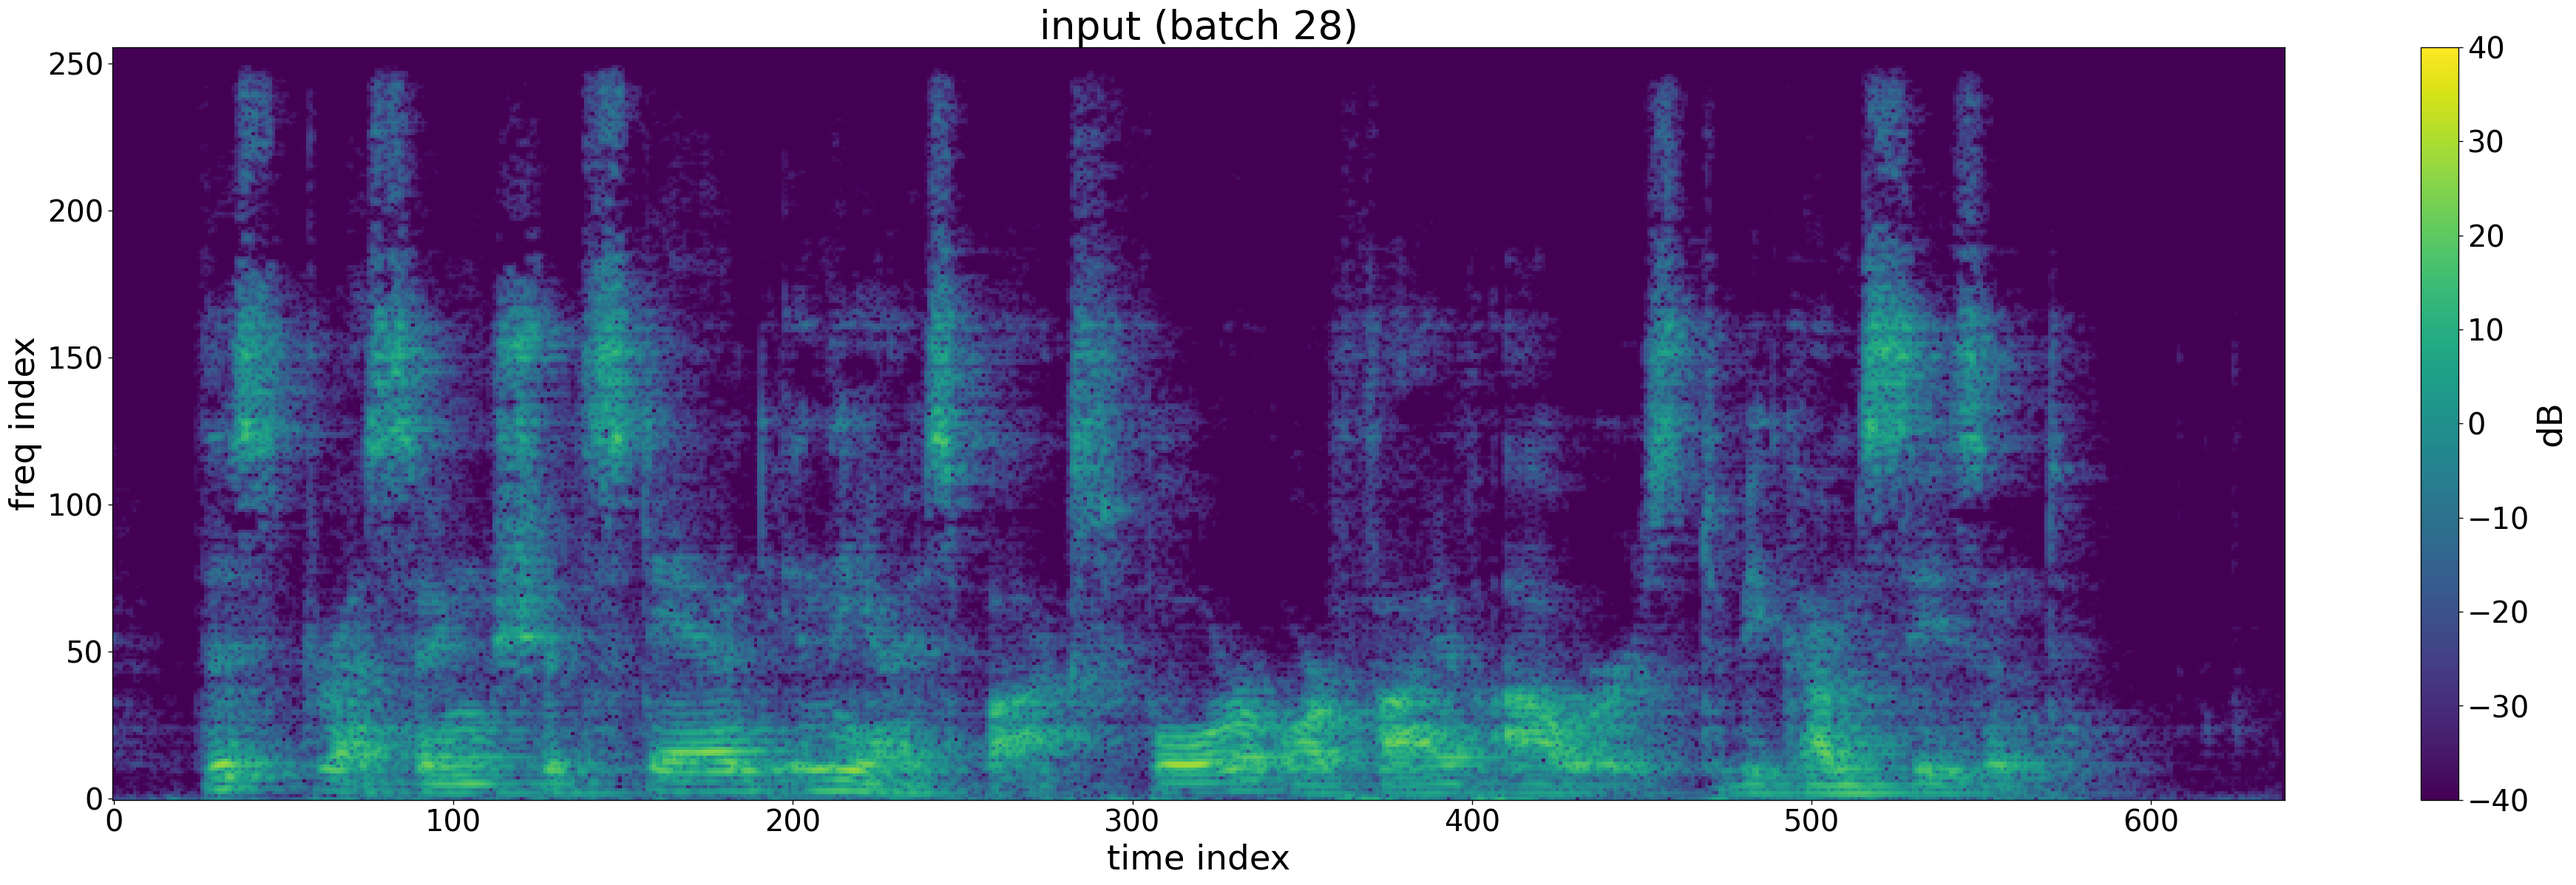
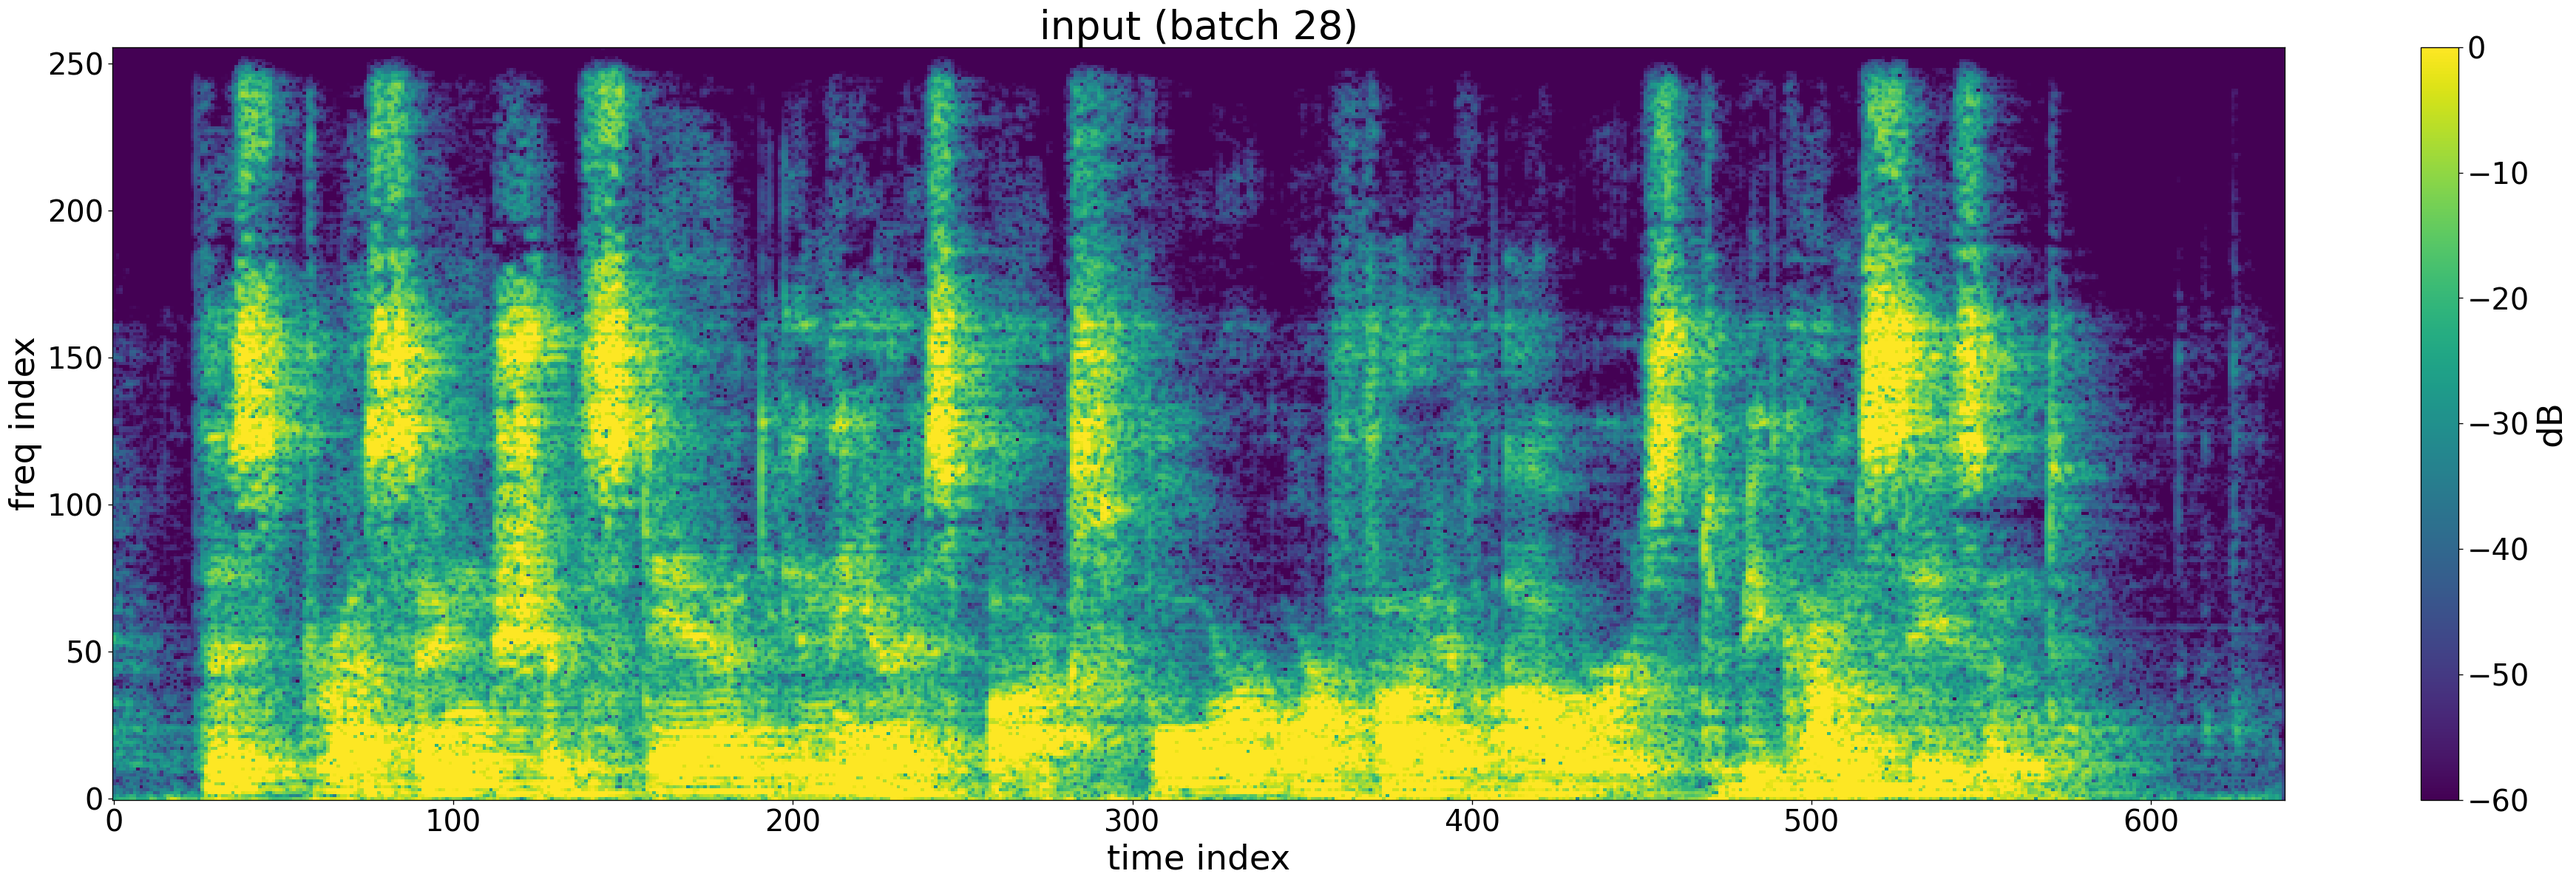
test/listen: drop PNG generation, unify spectrogram rendering
- test.py: remove plot_spectrogram and matplotlib; only write wavs.
  Example dirs renamed to example_b{batch}_{k} to carry batch index.
  Added --batch-idx CLI flag to specify batch (default: random).
- listen.py: replace scipy.signal.stft with pure-numpy STFT matching
  train.py's keras layer (periodic Hann, drop DC, no win-sum scaling).
  Remove PIL import; parse batch index from directory name.
- Regenerated input.png/output.png with updated vmin/vmax.

diff --git a/test.py b/test.py
@@ -1,4 +1,4 @@
-"""Render example inputs/predictions (spectrograms + wavs) from a trained model."""
+"""Render example inputs/predictions (wavs only) from a trained model."""
 import argparse
 import os
 import time
@@ -6,19 +6,8 @@ import time
 import numpy as np
 import soundfile as sf
 import tensorflow as tf
-from matplotlib import pyplot as plt
 
-from train import FRAME_LENGTH, FRAME_STEP, STFT, checkpoint_path, dataset, dereverb_model
-
-
-def plot_spectrogram(x, title, frame_length, frame_step, vmin=-40, vmax=40):
-    X = STFT(frame_length, frame_step)(x[tf.newaxis, :])
-    X = 10 * np.log10(np.sum(np.square(X[0]+1e-5), axis=-1))
-    im = plt.imshow(np.transpose(X), vmin=vmin, vmax=vmax, origin='lower', aspect='auto')
-    plt.xlabel('time index')
-    plt.ylabel('freq index')
-    plt.title(title)
-    plt.colorbar(im, label='dB')
+from train import FRAME_LENGTH, FRAME_STEP, checkpoint_path, dataset, dereverb_model
 
 
 def make_overlapping_sequences(x, block_size, overlap):
@@ -62,33 +51,33 @@ def block_inference(model, x, block_size, overlap):
     return y
 
 
-def test_models(model_dict, dataset, num_examples, frame_length, frame_step, out_dir):
-    """Generate spectrogram pngs + wavs for a random test batch across models."""
-    def save(x, path, title):
-        plt.figure(figsize=(21, 7))
-        plot_spectrogram(x, title, frame_length, frame_step)
-        plt.tight_layout()
-        plt.savefig(path + '.png', metadata={'Title': title}, bbox_inches='tight')
-        plt.close()
+def test_models(model_dict, dataset, num_examples, frame_length, frame_step, out_dir,
+                batch_idx=None):
+    """Write input/target/prediction wavs for a test batch across models.
+
+    If `batch_idx` is None, a random batch is picked."""
+    def save(x, path):
         sf.write(path + '.wav', x, samplerate=16000)
 
     os.makedirs(out_dir, exist_ok=True)
-    batch_idx = np.random.randint(0, len(dataset))
+    if batch_idx is None:
+        batch_idx = np.random.randint(0, len(dataset))
     print(f'batch index: {batch_idx}')
     inputs, targets = dataset[batch_idx]
 
+    example_dirs = []
     for k in range(num_examples):
-        d = os.path.join(out_dir, f'example_{k}')
+        d = os.path.join(out_dir, f'example_b{batch_idx}_{k}')
         os.makedirs(d, exist_ok=True)
-        save(inputs[k], os.path.join(d, 'input'), f'input (batch {batch_idx})')
-        save(targets[k], os.path.join(d, 'target'), f'target (batch {batch_idx})')
+        example_dirs.append(d)
+        save(inputs[k], os.path.join(d, 'input'))
+        save(targets[k], os.path.join(d, 'target'))
 
     for model_name, (model, checkpoint) in model_dict.items():
         model.load_weights(checkpoint)
         preds = [block_inference(model, inp, block_size=16384, overlap=128) for inp in inputs]
-        for k in range(num_examples):
-            d = os.path.join(out_dir, f'example_{k}')
-            save(preds[k], os.path.join(d, model_name), f'{model_name} (batch {batch_idx})')
+        for k, d in enumerate(example_dirs):
+            save(preds[k], os.path.join(d, model_name))
 
 
 if __name__ == '__main__':
@@ -96,6 +85,8 @@ if __name__ == '__main__':
     p.add_argument('--ver', choices=['dev', 'prd'], default='prd')
     p.add_argument('--num-examples', type=int, default=8)
     p.add_argument('--batch-size', type=int, default=16)
+    p.add_argument('--batch-idx', type=int, default=None,
+                   help='Test batch index to render. Default: random.')
     p.add_argument('--out-dir', default='./demo_dereverb')
     p.add_argument('--seed', type=int, default=42)
     args = p.parse_args()
@@ -109,4 +100,5 @@ if __name__ == '__main__':
     ckpt = checkpoint_path(args.ver)
     model_dict = {'unet': (model, ckpt)}
 
-    test_models(model_dict, test_ds, args.num_examples, FRAME_LENGTH, FRAME_STEP, args.out_dir)
+    test_models(model_dict, test_ds, args.num_examples, FRAME_LENGTH, FRAME_STEP, args.out_dir,
+                batch_idx=args.batch_idx)

diff --git a/listen.py b/listen.py
@@ -18,8 +18,6 @@ import numpy as np
 import soundfile as sf
 import matplotlib.pyplot as plt
 from matplotlib.widgets import Button
-from PIL import Image
-from scipy.signal import stft
 
 
 def _is_wsl():
@@ -71,29 +69,21 @@ class Player:
 
 
 def spectrogram_db(x, frame_length=512, frame_step=128, sr=16000):
-    _, _, Z = stft(x, fs=sr, nperseg=frame_length,
-                   noverlap=frame_length - frame_step, boundary=None)
-    return 20 * np.log10(np.abs(Z) + 1e-6)
-
-
-def _png_title(path):
-    """Read the 'Title' tEXt chunk from a PNG, if present."""
-    try:
-        with Image.open(path) as img:
-            return img.text.get('Title', '')
-    except (OSError, AttributeError):
-        return ''
+    # Matches train.py's STFT layer: right-pad, periodic Hann, drop DC bin.
+    pad = frame_length - frame_step
+    xp = np.concatenate([x, np.zeros(pad)])
+    n = np.arange(frame_length)
+    win = 0.5 - 0.5 * np.cos(2 * np.pi * n / frame_length)
+    n_frames = 1 + (len(xp) - frame_length) // frame_step
+    frames = np.stack([xp[i * frame_step:i * frame_step + frame_length] * win
+                       for i in range(n_frames)])
+    Z = np.fft.rfft(frames, n=frame_length, axis=-1)[:, 1:]
+    return (20 * np.log10(np.abs(Z) + 1e-6)).T
 
 
 def _batch_index(example_dir):
-    """Parse the 'batch N' index from input.png's embedded title.
-
-    Falls back to the trailing integer of the directory name."""
-    title = _png_title(os.path.join(example_dir, 'input.png'))
-    m = re.search(r'batch\s+(\d+)', title)
-    if m:
-        return int(m.group(1))
-    m = re.search(r'(\d+)$', os.path.basename(example_dir))
+    """Parse the batch id from directory names of the form `example_b{N}_{k}`."""
+    m = re.search(r'b(\d+)_\d+$', os.path.basename(example_dir))
     return int(m.group(1)) if m else -1
 
 
@@ -217,14 +207,14 @@ class Viewer:
             self.target_spec = self.target_spec[:, :nt]
 
         nfreq, nframes = self.input_spec.shape
-        vmin, vmax = -80, 20
+        vmin, vmax = -40, 40
         extent = [0, nframes, 0, nfreq]
 
         self.ax.clear()
         self.ax.set_xlabel('time frame')
         self.ax.set_ylabel('freq bin')
 
-        self.im = self.ax.imshow(self._current_spec(), vmin=vmin, vmax=vmax, cmap='magma',
+        self.im = self.ax.imshow(self._current_spec(), vmin=vmin, vmax=vmax,
                                  origin='lower', aspect='auto', extent=extent)
         if self.cbar is None:
             self.cbar = self.fig.colorbar(self.im, cax=self.cax, label='dB')
